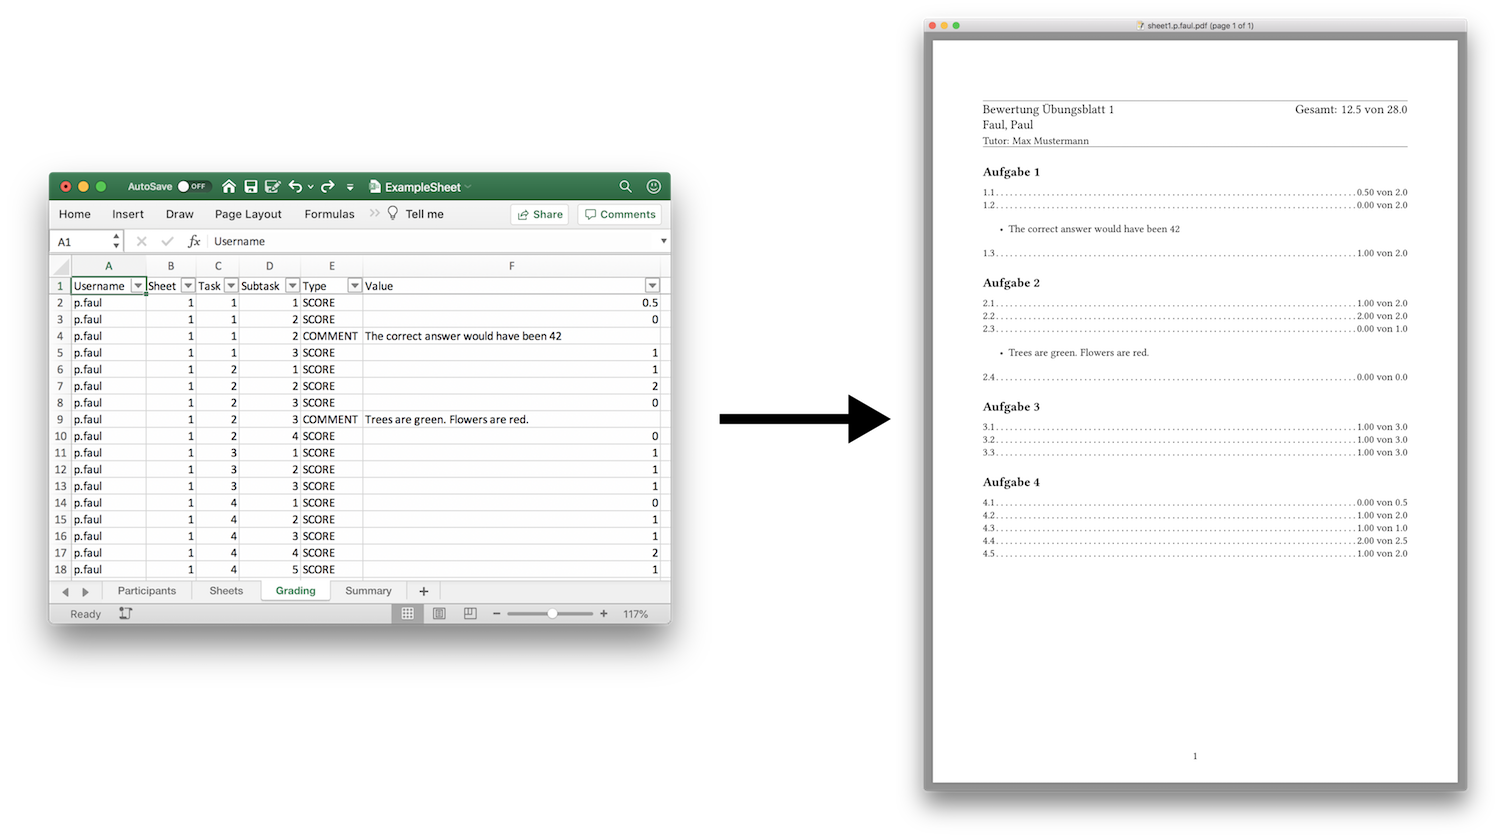
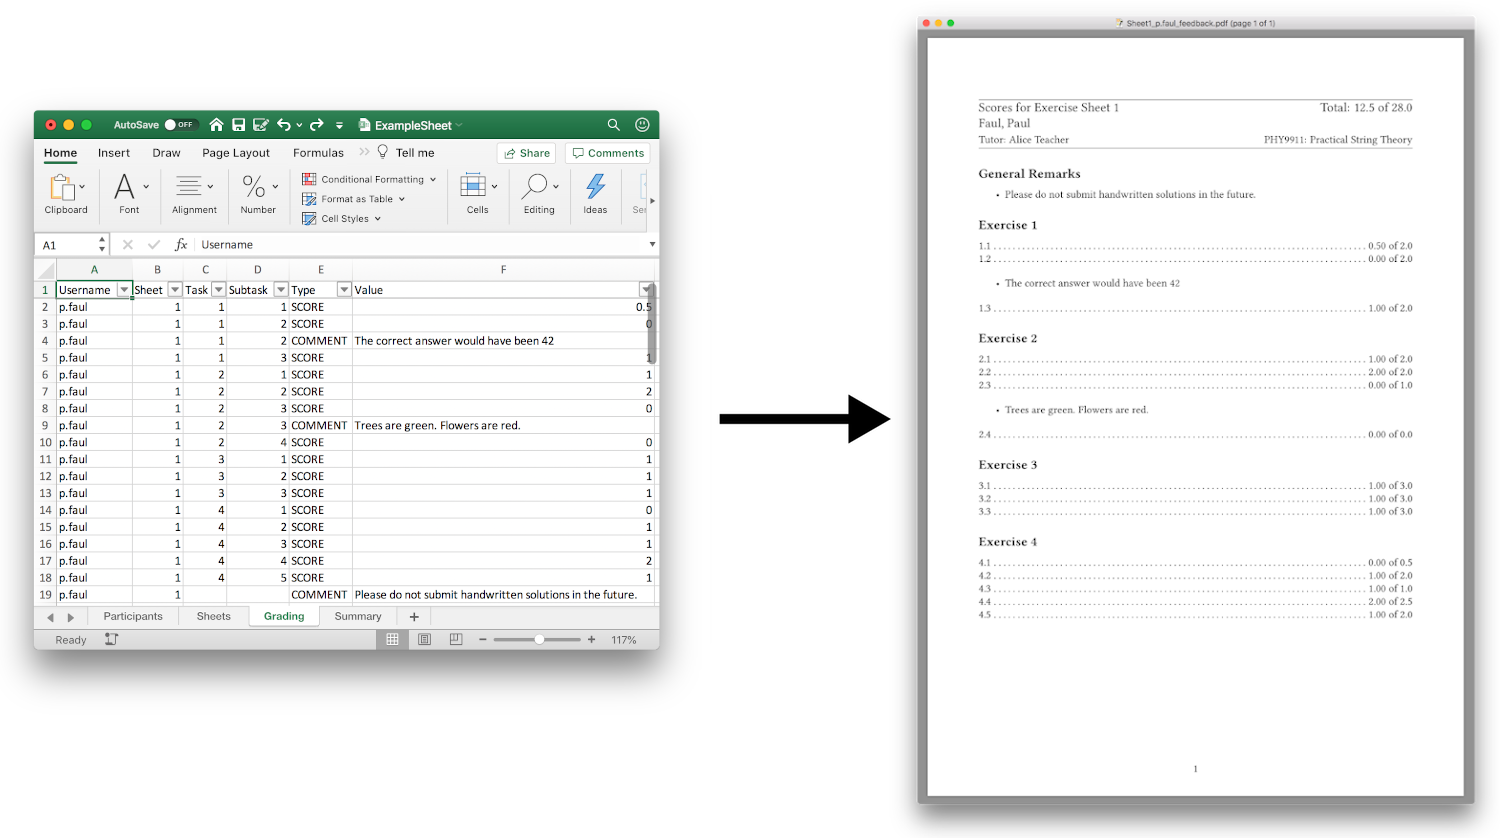
Feature: Global comments that do not apply to a specific task

Changed region(s): [[0.0, 0.1241, 0.46, 0.8377], [0.5827, 0.0, 1.0, 0.9928]]

diff --git a/src/assignmenttool/__init__.py b/src/assignmenttool/__init__.py
@@ -86,9 +86,23 @@ def mail_feedback(config, participants, pdfs):
 
 ####################################################################################################
 
+def read_scores(infile):
+    """Reads the scores from the Excel sheet while being as relaxed about the
+    data type of the task / subtask columns as possible"""
+    scores = pd.read_excel(infile, sheet_name = 'Grading', dtype={
+        'Username' : str,
+        'Sheet'    : 'Int64',
+        'Task'     : 'Int64',
+        'Subtask'  : 'Int64',
+        'Type'     : str,
+        'Value'    : object,
+        })
+
+    return scores
+
 def process(config):
     # Read Scores and comments
-    scores = pd.read_excel(config.infile, sheet_name = 'Grading')
+    scores = read_scores(config.infile)
 
     # Read participants
     participants = pd.read_excel(config.infile, sheet_name = 'Participants').set_index('Username')
@@ -114,20 +128,38 @@ def process(config):
 
     # Build dictionaries
     d = defaultdict(lambda : defaultdict( lambda : { 'score' : None, 'comments' : []} ) )
+    sheet_comments = defaultdict(lambda : [])
+
 
     for _,row in scores.iterrows():
-        task = (row.Sheet, row.Task, row.Subtask)
-        record = d[row.Username][task]
+        if pd.isna(row.Sheet):
+            raise AToolError('Failed to parse provided Excel file, "Grading" sheet contains empty value for "Sheet" column.')
         if row.Type.upper() == 'SCORE':
+            # Check if the row checks out
+            if pd.isna(row.Task) or pd.isna(row.Subtask) or pd.isna(row.Value):
+                raise AToolError(f'Failed to parse provided Excel file, "Grading" sheet contains empty value for "Task", "Subtask" or "Value" column for sheet {row.Sheet}.')
+            task = (row.Sheet, row.Task, row.Subtask)
+            record = d[row.Username][task]
+            # Check if a score occurs redundantly for the same task
             if record['score'] is not None:
                 raise AToolError(f'Duplicate score for identical task found (User: {row.Username}, Sheet: {row.Sheet}, Task: {row.Task}, Subtask: {row.Subtask}')
+            # Obtain maximum attainable score
             try:
                 record['max_score'] = max_scores[task]
             except KeyError:
                 raise AToolError(f'Could not find maximum score for task {task}')
             record['score'] = row.Value
         elif row.Type.upper() == 'COMMENT':
-            record['comments'].append(row.Value)
+            # Check if this is a comment that applies to the entire sheet
+            if pd.isna(row.Task) and pd.isna(row.Subtask):
+                sheet_comments[row.Username].append(row.Value)
+            elif pd.isna(row.Task) or pd.isna(row.Subtask):
+                raise AToolError(f'Failed to parse provided Excel file, "Grading" sheet contains empty value for "Task" or "Subtask" but not for both.')
+            # ... or if it's a comment that applies to a specific task
+            else:
+                task = (row.Sheet, row.Task, row.Subtask)
+                record = d[row.Username][task]
+                record['comments'].append(row.Value)
         else:
             raise AToolError(f'Invalid value type "{row.Type}".')
 
@@ -166,8 +198,19 @@ def process(config):
                     body.append(f'\\comment{{{comment}}}')
                 body.append(r'\afterComments')
 
+        # Global comments
+        global_ = []
+        if user in sheet_comments:
+            global_.append('\\beforeGlobalComments')
+            global_comments = sheet_comments[user]
+            for comment in global_comments:
+                global_.append(f'\\globalComment{{{comment}}}')
+            global_.append('\\afterGlobalComments')
+
         # Write out and compile tex
+        tex = tex.replace('§§global§§', '\n'.join(global_))
         tex = tex.replace('§§body§§', '\n'.join(body))
+        tex = tex.replace('§§tasks§§', '\n'.join(body))
         pdf = compileLaTeX(tex, config.pdflatex)
 
         # Move output file in place

diff --git a/examples/template.tex b/examples/template.tex
@@ -8,24 +8,45 @@
 
 \setlength\parindent{0mm}
 
+% Command is executed before global comments and only if global comments are present
+\newcommand\beforeGlobalComments{
+    \subsection*{General Remarks}
+    \begin{itemize}\setlength\itemsep{0mm}
+}
+
+% Command is executed after global comments and only if global comments are present
+\newcommand\afterGlobalComments{
+    \end{itemize}
+}
+
+% Command is executed for every global comment. Arguments: Comment.
+\newcommand\globalComment[1]{
+\item #1
+}
+
+% Command is executed before per-task comments and only if per-task comments are present
 \newcommand\beforeComments{
     \begin{itemize}\setlength\itemsep{0mm}
 }
 
+% Command is executed after per-task comments and only if per-task comments are present
 \newcommand\afterComments{
     \end{itemize}
 }
 
+% Command is executed for every per-task comment. Arguments: Comment.
 \newcommand\comment[1]{
 \item #1
 }
 
+% Command is executed for every scored task, passing the task number as an argument
 \newcommand\newtask[1]{
 \subsection*{Exercise #1}
 }
 
+% Command is executed for every scored subtask. Arguments: sheet number, task number, subtask number, score for the subtask, maximum attainable score for the subtask
 \newcommand\scoreTask[5]{% <sheet> <task> <subtask> <score> <total>
-#2.#3\dotfill #4 von #5
+#2.#3\dotfill #4 of #5
 
 }
 
@@ -33,16 +54,18 @@
 \hrule
 \smallskip
 
-{\large Bewertung Übungsblatt §§sheetnr§§\hfill Gesamt: §§total§§ von §§maxtotal§§}\smallskip
+{\large Scores for Exercise Sheet §§sheetnr§§\hfill Total: §§total§§ of §§maxtotal§§}\smallskip
 
 {\large §§fullname§§}\smallskip
 
-{Tutor: §§tutorname§§}
+{Tutor: §§tutorname§§\hfill PHY9911: Practical String Theory}
 
 \smallskip
 \hrule
 \vspace{0.2cm}
 
-§§body§§
+§§global§§
+
+§§tasks§§
 
 \end{document}

diff --git a/setup.py b/setup.py
@@ -21,13 +21,13 @@
 from setuptools import setup, find_packages
 
 requires = [
-        'pandas',
+        'pandas>=1.0.0',
         'xlrd',
         ]
 
 setup(
         name = 'assignmenttool',
-        version = '1.1.1',
+        version = '1.2.0',
         package_dir={'':'src'},
         packages=find_packages('./src'),
         author = 'Leon Kuchenbecker',

diff --git a/README.md b/README.md
@@ -10,7 +10,7 @@ student assignments.
 
 You can install `assignment-tool` by running
 
-    pip install git+https://github.com/KohlbacherLab/assignment-tool.git@1.1.1
+    pip install git+https://github.com/KohlbacherLab/assignment-tool.git@1.2.0
 
 ## Usage
 
@@ -150,6 +150,10 @@ The order of the rows does not matter, tasks and subtasks will always be shown
 on the feedback PDF file in numerical order. If multiple comments are added for
 the same subtask, the order in which they are specified in the Excel sheet is
 maintained on the feedback PDF file.
+
+Optionally, *global* comments can be specified by leaving the *Task* and
+*Subtask* fields empty. Such comments can then be rendered separately from the
+per-task comments.
 
 ### The *Summary* Sheet
 
